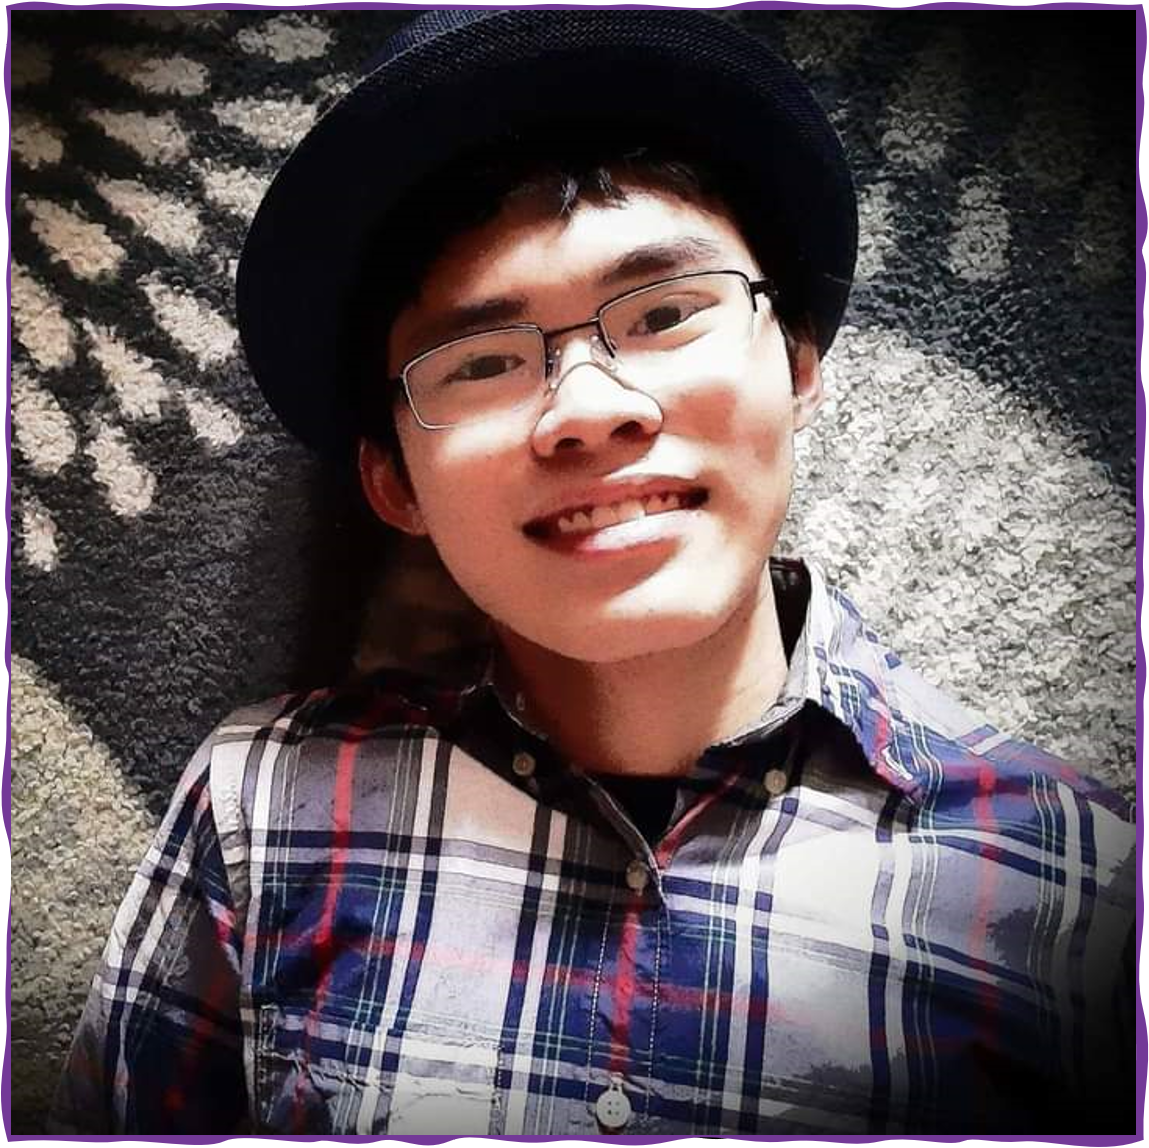
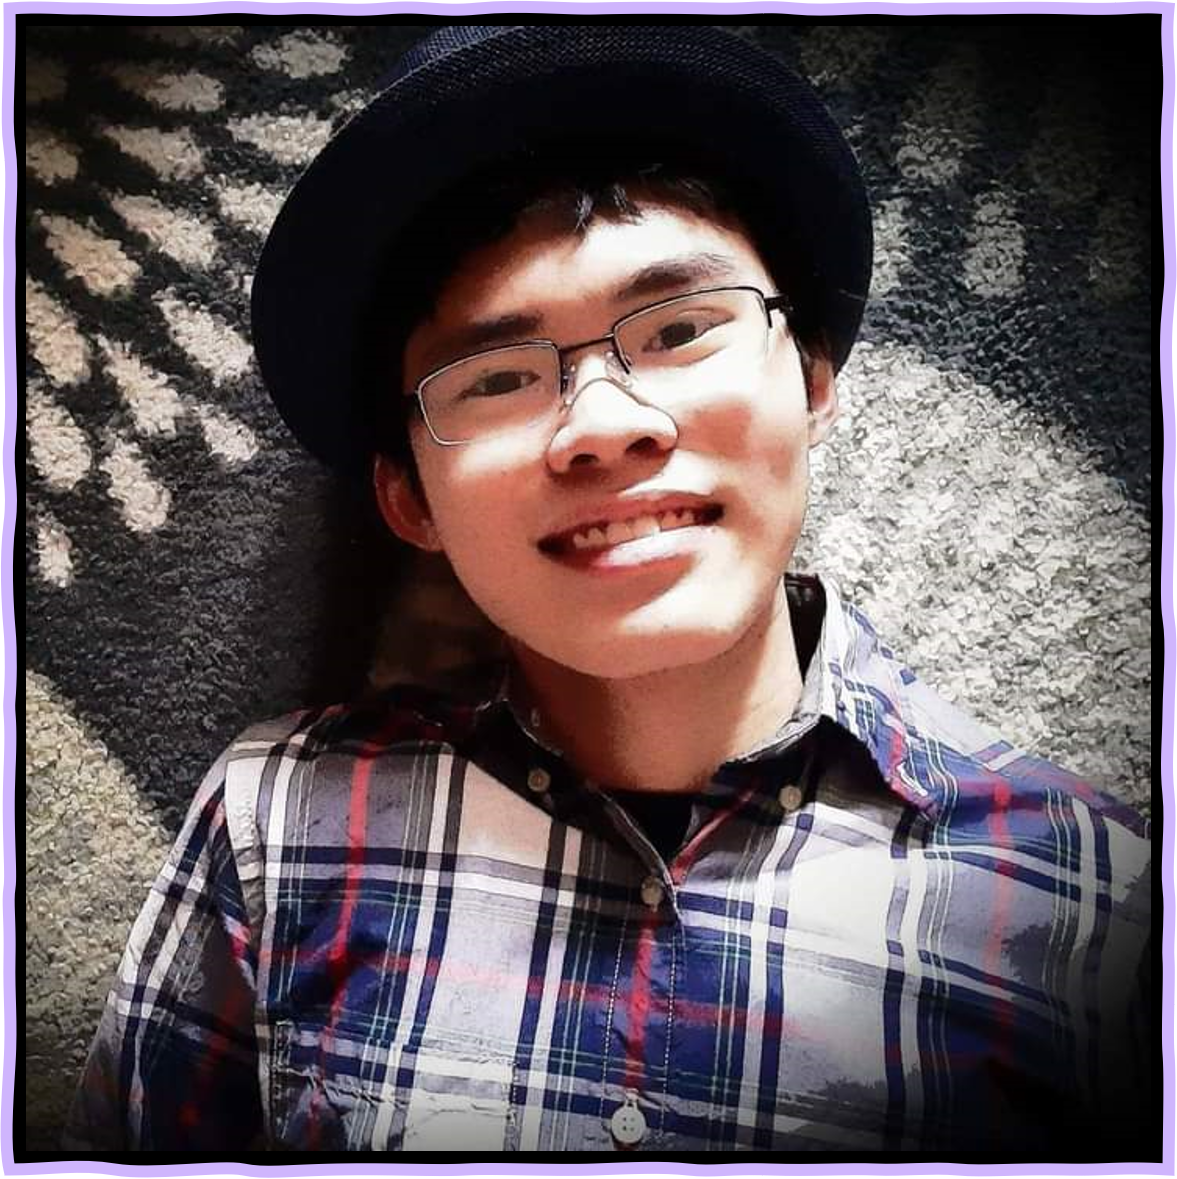
1/14/2021

diff --git a/aboutme.html b/aboutme.html
@@ -29,7 +29,7 @@
 <p id="whoissam"> Who's Samuel?</p>      
 
 <br>
-<br>      
+      
    
   
 
@@ -49,7 +49,7 @@
     
     
 <div class="column" style="background-color:black;">
-<img src="aboutme1.jpg" alt="Samuel Cheung="width:40%">
+<img src="aboutme1.png" alt="Samuel Cheung="width:40%">
 </div>
 </div>
 

diff --git a/style.css b/style.css
@@ -84,7 +84,7 @@ body.contact-color{background-color:black;}
     font-size: 50px;
     font-weight: 500;
     text-align: left;
-    color: plum;
+    color: mediumpurple;
   }
 
 .aboutme-img {

diff --git a/contact.html b/contact.html
@@ -47,7 +47,7 @@
 <br>
 <br>    
     
-<img src="contacts.jpg" alt="Contact image" class="contactcenter"> 
+<img src="contacts.png" alt="Contact image" class="contactcenter"> 
 
     
 

diff --git a/index.html b/index.html
@@ -34,7 +34,7 @@
     
     
 
-<img src="pic-1.jpg" alt="intro image" class="center">
+<img src="Picture1.png" alt="intro image" class="center">
     
 
 
